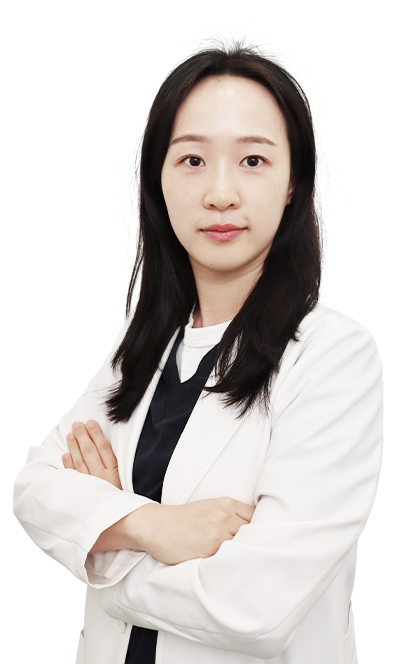
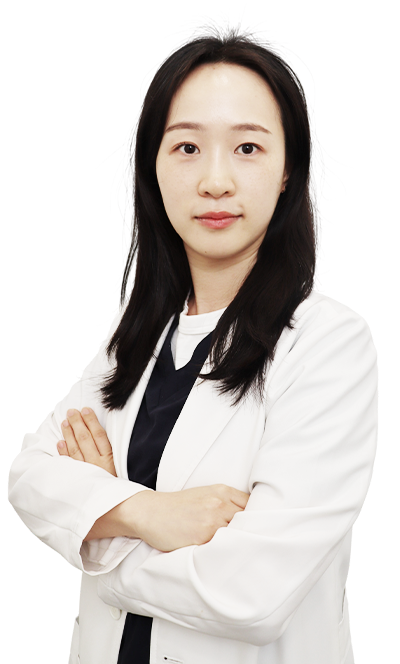
의료진: 사진 7장 배경 투명 PNG 로 교체(이은주 제외 전원) + 보정값 재계산, 의료진 소개 '창원점·마산점 의료진' 타이틀 1.2배
- 기존 사진과 맞대어 잰 위치·배율 차이로 메인(photoScale·photoOffset)·의료진 소개(staffCrop) 값 다시 계산, photoBlend·photoBacker 끔
- 의료진 소개 사진 칸 양옆 24px 녹임을 투명 PNG 에도 적용(가운이 칸 끝에서 잘려 세로선이 보여서)
- common.css no-hero 설명 주석에 병원 오시는길 추가

diff --git a/assets/js/site-data.js b/assets/js/site-data.js
@@ -236,14 +236,14 @@ window.SITE = {
       ],
     },
     {
-      name: '권진선', focus: '임플란트, 보철치료', logos: [], title: '원장', dept: '치과보철과', branches: ['changwon'], photo: 'doctor-kwon-jinseon.jpg', staffCrop: { scale: 1.398, x: 0.53, y: 0.08 }, photoHeadTop: 0.08, photoScale: 1.14, photoOffsetY: 12.1, photoBlend: true, photoBacker: true,
+      name: '권진선', focus: '임플란트, 보철치료', logos: [], title: '원장', dept: '치과보철과', branches: ['changwon'], photo: 'doctor-kwon-jinseon.jpg', staffCrop: { scale: 1.495, x: 0.529, y: 0.061 }, photoHeadTop: 0.061, photoScale: 1.22, photoOffsetY: 21.7, photoOffsetX: -0.1, photoBlend: false, photoBacker: false,
       career: [
         '보건복지부 인증 치과보철과 전문의', '부산대학교 치과병원 치과보철과 외래교수', '부산대학교 대학원 치과보철학 박사',
         '부산대학교 치의학전문대학원 졸업', '부산대학교 치과병원 인턴, 치과보철과 레지던트 수료', '대한치과보철학회 인정의·정회원',
       ],
     },
     {
-      name: '이휘소', focus: '충치치료, 신경치료, 보철치료', logos: [], title: '원장', dept: '보철·보존', branches: ['changwon'], photo: 'doctor-lee-hwiso.jpg', staffCrop: { scale: 1.603, x: 0.495, y: 0.063 }, photoHeadTop: 0.063, photoScale: 1.21, photoOffsetY: 20.3, photoBlend: true, photoBacker: true,
+      name: '이휘소', focus: '충치치료, 신경치료, 보철치료', logos: [], title: '원장', dept: '보철·보존', branches: ['changwon'], photo: 'doctor-lee-hwiso.jpg', staffCrop: { scale: 1.603, x: 0.495, y: 0.063 }, photoHeadTop: 0.063, photoScale: 1.21, photoOffsetY: 20.3, photoBlend: false, photoBacker: false, // 배경 투명 PNG (2026-11-09 교체: 이휘소 원장-Photoroom.png 1600×2400 → 기존 구도대로 잘라 400×664)
       career: [
         '연세대학교 치과대학 졸업', '대한치과의사협회지 2021.06 논문 저자', '오스템 엔도 세미나, 김평식 엔도 세미나 수료',
         '대한치과보존학회·대한심미치과학회 정회원', '경남교통방송(tbn) 라디오 출연', '대한치과의사협회 표창장 (2021)', '전) 김제시보건소 역학조사관',
@@ -252,7 +252,7 @@ window.SITE = {
     // 마산점
     {
       // TODO: 진료과 표기 병원 확인 — 현재 '통합치의학과', 기존 사이트 약력에는 '소아치과 전문의'로 표기됨
-      name: '정호석', focus: '임플란트, 보철치료, 소아치료', logos: [], title: '대표원장', dept: '통합치의학과', branches: ['masan'], photo: 'doctor-jeong-hoseok.jpg', staffCrop: { scale: 1.528, x: 0.498, y: 0.062 }, photoHeadTop: 0.062, photoScale: 1.07, photoOffsetY: 7.1, photoBlend: true, photoBacker: true,
+      name: '정호석', focus: '임플란트, 보철치료, 소아치료', logos: [], title: '대표원장', dept: '통합치의학과', branches: ['masan'], photo: 'doctor-jeong-hoseok.jpg', staffCrop: { scale: 1.677, x: 0.485, y: 0.145 }, photoHeadTop: 0.145, photoScale: 1.17, photoOffsetY: 7.2, photoOffsetX: 0.9, photoBlend: false, photoBacker: false,
       career: [
         '보건복지부 인증 소아치과 전문의', '보건복지부 인증 통합치의학과 전문의', '원광대학교 치과대학 졸업', '원광대학교병원 소아치과 인턴·레지던트 수료', '원광대학교 치과대학원 수료',
         '화성시치과의사회 회장 역임, (현) 고문', '대한치과보철학회 인증 우수보철치과의사과정 수료', '미국 펜실베니아대학교 근관치료과정 수료',
@@ -260,7 +260,7 @@ window.SITE = {
       ],
     },
     {
-      name: '송희태', focus: '교정치료, 투명교정', logos: [], title: '원장', dept: '치과교정과', branches: ['masan'], photo: 'doctor-song-heetae.jpg', staffCrop: { scale: 1.304, x: 0.575, y: 0.095 }, photoHeadTop: 0.095, photoScale: 0.99, photoOffsetY: -3.3, photoBlend: true, photoBacker: true,
+      name: '송희태', focus: '교정치료, 투명교정', logos: [], title: '원장', dept: '치과교정과', branches: ['masan'], photo: 'doctor-song-heetae.jpg', staffCrop: { scale: 1.319, x: 0.622, y: 0.104 }, photoHeadTop: 0.104, photoScale: 1, photoOffsetY: -3.3, photoOffsetX: -2.9, photoBlend: false, photoBacker: false,
       career: [
         '보건복지부 인증 치과교정과 전문의', '보건복지부 인증 통합치의학과 전문의', '대한치과교정학회 인정의',
         '서울대학교 학사, 경희대학교 치의학석사', '경희대학교 치과병원 인턴 수석 수료, 교정과 레지던트', '대한치과교정학회 정회원',
@@ -269,14 +269,14 @@ window.SITE = {
       ],
     },
     {
-      name: '조용정', focus: '임플란트, 보철치료', logos: [], title: '원장', dept: '치과보철과', branches: ['masan'], photo: 'doctor-cho-yongjeong.jpg', staffCrop: { scale: 1.479, x: 0.4, y: 0.056 }, photoHeadTop: 0.054, photoScale: 1.16, photoOffsetY: 16.5, photoOffsetX: 3, photoBlend: true, photoBacker: true,
+      name: '조용정', focus: '임플란트, 보철치료', logos: [], title: '원장', dept: '치과보철과', branches: ['masan'], photo: 'doctor-cho-yongjeong.jpg', staffCrop: { scale: 1.479, x: 0.4, y: 0.056 }, photoHeadTop: 0.054, photoScale: 1.16, photoOffsetY: 16.5, photoOffsetX: 3, photoBlend: false, photoBacker: false, // 배경 투명 PNG (2026-11-09 교체: 조용정 원장님.png 1365×2048 → 기존 구도대로 잘라 602×999)
       career: [
         '보건복지부 인증 치과보철과 전문의', '서울대학교 치과대학 졸업', '강남성모병원 인턴, 치과보철과 레지던트 수료',
         '대한치과보철학회 인정의·정회원', '국군수도병원 보철과장 역임', '전) 서울에스바른치과 대표원장',
       ],
     },
     {
-      name: '조혜진', focus: '충치치료, 신경치료', logos: [], title: '원장', dept: '치과보존과', branches: ['masan'], photo: 'doctor-cho-hyejin.jpg', staffCrop: { scale: 1.374, x: 0.559, y: 0.059 }, photoHeadTop: 0.059, photoScale: 1.08, photoOffsetY: 7, photoBlend: true, photoBacker: true,
+      name: '조혜진', focus: '충치치료, 신경치료', logos: [], title: '원장', dept: '치과보존과', branches: ['masan'], photo: 'doctor-cho-hyejin.jpg', staffCrop: { scale: 1.377, x: 0.547, y: 0.041 }, photoHeadTop: 0.041, photoScale: 1.08, photoOffsetY: 9.2, photoOffsetX: 0.8, photoBlend: false, photoBacker: false,
       career: [
         '보건복지부 인증 치과보존과 전문의', '보건복지부 인증 통합치의학과 전문의', '원광대학교 치과대학 졸업',
         '조선대학교 치과병원 인턴, 치과보존과 레지던트 수료', '대한치과보존학회 인정의·정회원',
@@ -285,7 +285,7 @@ window.SITE = {
     },
     // 겸직
     {
-      name: '김영우', focus: '임플란트, 사랑니발치', logos: [], title: '원장', dept: '구강악안면외과', branches: ['changwon', 'masan'], photo: 'doctor-kim-youngwoo.jpg', staffCrop: { scale: 1.053, x: 0.5, y: 0.05 }, photoHeadTop: 0.047, photoScale: 0.93, photoOffsetY: -4.3, photoBlend: true, photoBacker: true,
+      name: '김영우', focus: '임플란트, 사랑니발치', logos: [], title: '원장', dept: '구강악안면외과', branches: ['changwon', 'masan'], photo: 'doctor-kim-youngwoo.jpg', staffCrop: { scale: 1.072, x: 0.444, y: 0.067 }, photoHeadTop: 0.064, photoScale: 0.95, photoOffsetY: -4.3, photoOffsetX: 3.2, photoBlend: false, photoBacker: false,
       career: [
         '보건복지부 인증 구강악안면외과 전문의', '보건복지부 인증 통합치의학과 전문의', '서울대학교치과병원 구강악안면외과 인턴·레지던트 수료',
         '서울대학교 치의학대학원 구강악안면외과학 석사 수료', '대한구강악안면성형재건외과학회 인정의',

diff --git a/assets/css/common.css b/assets/css/common.css
@@ -517,7 +517,7 @@ body.is-locked { overflow: hidden; }
 .sub-layout { display: grid; grid-template-columns: 260px minmax(0, 1fr); gap: 0 64px; align-items: start; padding-top: var(--space-3xl); padding-bottom: var(--space-4xl); }
 /* 배너 없는 LNB 페이지(커뮤니티 — 글이 먼저 보이게 배너 삭제): 고정 흰 헤더 아래 64px 에서 LNB·본문 시작 (1024px 이하는 가로 탭이 헤더 바로 아래) */
 .has-lnb:not(:has(.sub-visual)) .sub-layout { padding-top: calc(var(--header-h) + var(--space-3xl)); }
-/* 상단 배너를 뺀 서브페이지(body.no-hero — 진료과목 5개, 다른 서브페이지도 body 에 클래스만 붙이면 같은 방식):
+/* 상단 배너를 뺀 서브페이지(body.no-hero — 진료과목 5개·병원 오시는길, 다른 서브페이지도 body 에 클래스만 붙이면 같은 방식):
    처음부터 흰 헤더(흰 바탕·진한 글자·컬러 로고 — 배너가 없어 투명 헤더 규칙이 걸리지 않음) + 스크롤 후와 같은 옅은 그림자 → 스크롤 전후 같은 모습
    본문(LNB·경로 줄) 시작 = 헤더 아래 56px (1024px 이하는 위 규칙대로 가로 탭이 헤더 바로 아래) */
 body.no-hero .header { box-shadow: 0 4px 16px rgba(0, 0, 0, 0.08); }
@@ -909,13 +909,13 @@ a.article-nav__item:hover .article-nav__title { color: var(--color-accent); }
        사진 칸 = 상자 위 100px(--pop) ~ 상자 아래 끝, 너비 --doc-pw(모든 원장 같음). 크롭 = site-data.js staffCrop(김영우 원장 구도 기준 — 얼굴 길이·정수리 높이 같게)
          정수리를 칸 위 끝에, 얼굴 가운데를 칸 가운데에. 사진 크기는 기본 칸 높이(--ph0) 기준이라 약력이 길어 상자가 커져도 얼굴 크기는 그대로, 아래는 상자 아래 끝에서 잘림
          — 원장별 크롭 값은 pages.js 가 --cs·--cx·--cy 로 넘김. 칸 밖은 잘라냄(아래쪽 = 상반신 구도)
-       흰 배경 사진(doctor-*-cut.png)은 multiply 를 쓰지 않는다(흰 가운·얼굴로 상자 색이 비침). 칸 좌우 끝 24px 만 흰색→투명으로 녹임(.is-whitebg — 배경 투명 PNG 는 그대로)
+       흰 배경 사진(doctor-*-cut.png)은 multiply 를 쓰지 않는다(흰 가운·얼굴로 상자 색이 비침). 칸 좌우 끝 24px 를 녹임 — 흰 배경 사진·배경 투명 PNG 모두(투명 사진도 가운이 칸 끝에서 잘리므로)
      약력: 전문의·학력·경력 = 네이비 굵게, 연수·학회 활동 = 기본 검정 (pages.js careerOf)
    1024px 이하: 사진(옅은 파랑 면 위, 머리가 면 위로) → 이름·태그 → 약력 상자(1열), 이름 36px */
 .doctor-group + .doctor-group { margin-top: var(--space-4xl); }
 .doctor-group__head { margin-bottom: 28px; }
 .doctor-group__label { font-size: 0.8125rem; font-weight: 700; letter-spacing: 0.16em; line-height: 1.4; color: var(--doc-color, var(--color-point)); }
-.doctor-group__title { margin-top: 6px; font-size: 1.75rem; line-height: 1.35; letter-spacing: -0.02em; }
+.doctor-group__title { margin-top: 6px; font-size: 2.1rem; line-height: 1.35; letter-spacing: -0.02em; }
 html:has(body.has-lnb .page-doctors) { scroll-padding-top: calc(var(--header-h) + 24px); } /* #changwon · #masan · 원장 해시로 열 때 = 지점 이동 버튼과 같은 위치(헤더 + 24px) */
 /* 이 페이지 가로 배치 (1025px 이상): 위쪽 [LNB | 경로·제목·소개 블록] 묶음과 원장 목록(.doc-list)이 같은 가운데·같은 폭
    좌우 여백 = --doc-side (pages.js: max(퀵메뉴와 32px 띄울 만큼, (화면 - 1600px) ÷ 2)) → 왼쪽 = 오른쪽, 최대 너비 1600px */
@@ -966,7 +966,7 @@ html:has(body.has-lnb .page-doctors) { scroll-padding-top: calc(var(--header-h) 
   top: calc(var(--ph0) * var(--cs) * var(--cy) * -1); left: calc(50% - var(--ph0) * var(--cs) * 0.6024 * var(--cx));
 }
 /* 흰 배경 사진: 칸 좌우 끝 24px 만 흰색→투명 (상자 위에서 흰 사각형 경계가 보이지 않게). 위는 정수리 = 칸 위 끝이라 녹이지 않음 */
-.doctor-profile__photo.is-whitebg { -webkit-mask-image: linear-gradient(90deg, transparent, #000 24px, #000 calc(100% - 24px), transparent); mask-image: linear-gradient(90deg, transparent, #000 24px, #000 calc(100% - 24px), transparent); }
+.doctor-profile__photo { /* 흰 배경·투명 PNG 모두 — 투명 사진도 가운이 칸 끝에서 잘려 세로선이 보여서 (2026-11-09) */  -webkit-mask-image: linear-gradient(90deg, transparent, #000 24px, #000 calc(100% - 24px), transparent); mask-image: linear-gradient(90deg, transparent, #000 24px, #000 calc(100% - 24px), transparent); }
 .doctor-profile__img.is-missing { display: none; }
 /* 약력: 500 · 줄 간격 1.5 · #1a1f2b, 점(4px)과 글자 사이 10px — 모든 항목 같은 색·굵기. 시작선 = 이름 왼쪽 끝 (같은 상자 안 왼쪽 여백)
    3개 이하 1열, 4개 이상 2열(.is-2col) — 왼쪽 열을 위→아래로 먼저 채우고 오른쪽 열로 (행 수 --career-rows = 올림(항목 ÷ 2), pages.js careerOf)
@@ -1004,8 +1004,8 @@ html:has(body.has-lnb .page-doctors) { scroll-padding-top: calc(var(--header-h) 
   .doctor-profile__box { order: 2; min-height: 0; padding: 32px 40px 40px; border-radius: 0 0 var(--radius-md) var(--radius-md); }
   .doctor-profile__head { margin-bottom: 24px; }
   /* 칸이 사진보다 넓음 → 칸 대신 사진 좌우 끝 24px 를 녹임 */
-  .doctor-profile__photo.is-whitebg { -webkit-mask-image: none; mask-image: none; }
-  .doctor-profile__photo.is-whitebg > .doctor-profile__img { -webkit-mask-image: linear-gradient(90deg, transparent, #000 24px, #000 calc(100% - 24px), transparent); mask-image: linear-gradient(90deg, transparent, #000 24px, #000 calc(100% - 24px), transparent); }
+  .doctor-profile__photo { -webkit-mask-image: none; mask-image: none; }
+  .doctor-profile__photo > .doctor-profile__img { -webkit-mask-image: linear-gradient(90deg, transparent, #000 24px, #000 calc(100% - 24px), transparent); mask-image: linear-gradient(90deg, transparent, #000 24px, #000 calc(100% - 24px), transparent); }
 }
 /* 1024px 이하: 사진(옅은 파랑 면 위, 머리가 면 위로 --pop) → 상자(이름·태그·약력), 이름 36px */
 @media (max-width: 1024px) {
@@ -1021,8 +1021,8 @@ html:has(body.has-lnb .page-doctors) { scroll-padding-top: calc(var(--header-h) 
   .doctor-profile__box { order: 2; min-height: 0; padding: 28px 32px 32px; border-radius: 0 0 var(--radius-md) var(--radius-md); }
   .doctor-profile__head { margin-bottom: 24px; }
   /* 칸이 사진보다 넓음 → 칸 대신 사진 좌우 끝 24px 를 녹임 */
-  .doctor-profile__photo.is-whitebg { -webkit-mask-image: none; mask-image: none; }
-  .doctor-profile__photo.is-whitebg > .doctor-profile__img { -webkit-mask-image: linear-gradient(90deg, transparent, #000 24px, #000 calc(100% - 24px), transparent); mask-image: linear-gradient(90deg, transparent, #000 24px, #000 calc(100% - 24px), transparent); }
+  .doctor-profile__photo { -webkit-mask-image: none; mask-image: none; }
+  .doctor-profile__photo > .doctor-profile__img { -webkit-mask-image: linear-gradient(90deg, transparent, #000 24px, #000 calc(100% - 24px), transparent); mask-image: linear-gradient(90deg, transparent, #000 24px, #000 calc(100% - 24px), transparent); }
 }
 @media (max-width: 768px) {
   .doctor-profile { --mh: 360px; --pop: 72px; padding-block: 48px; }
@@ -1237,7 +1237,7 @@ html:has(body.has-lnb .page-doctors) { scroll-padding-top: calc(var(--header-h) 
   .branch-card__tel { font-size: 1.625rem; }
   .quick-consult { padding: 24px 16px; }
   .quick-consult .form { grid-template-columns: 1fr; }
-  .doctor-group__title { font-size: 1.5rem; }
+  .doctor-group__title { font-size: 1.8rem; }
   .doc-branch-nav { bottom: calc(var(--bottom-bar-h) + env(safe-area-inset-bottom) + 16px); }
 }
 
